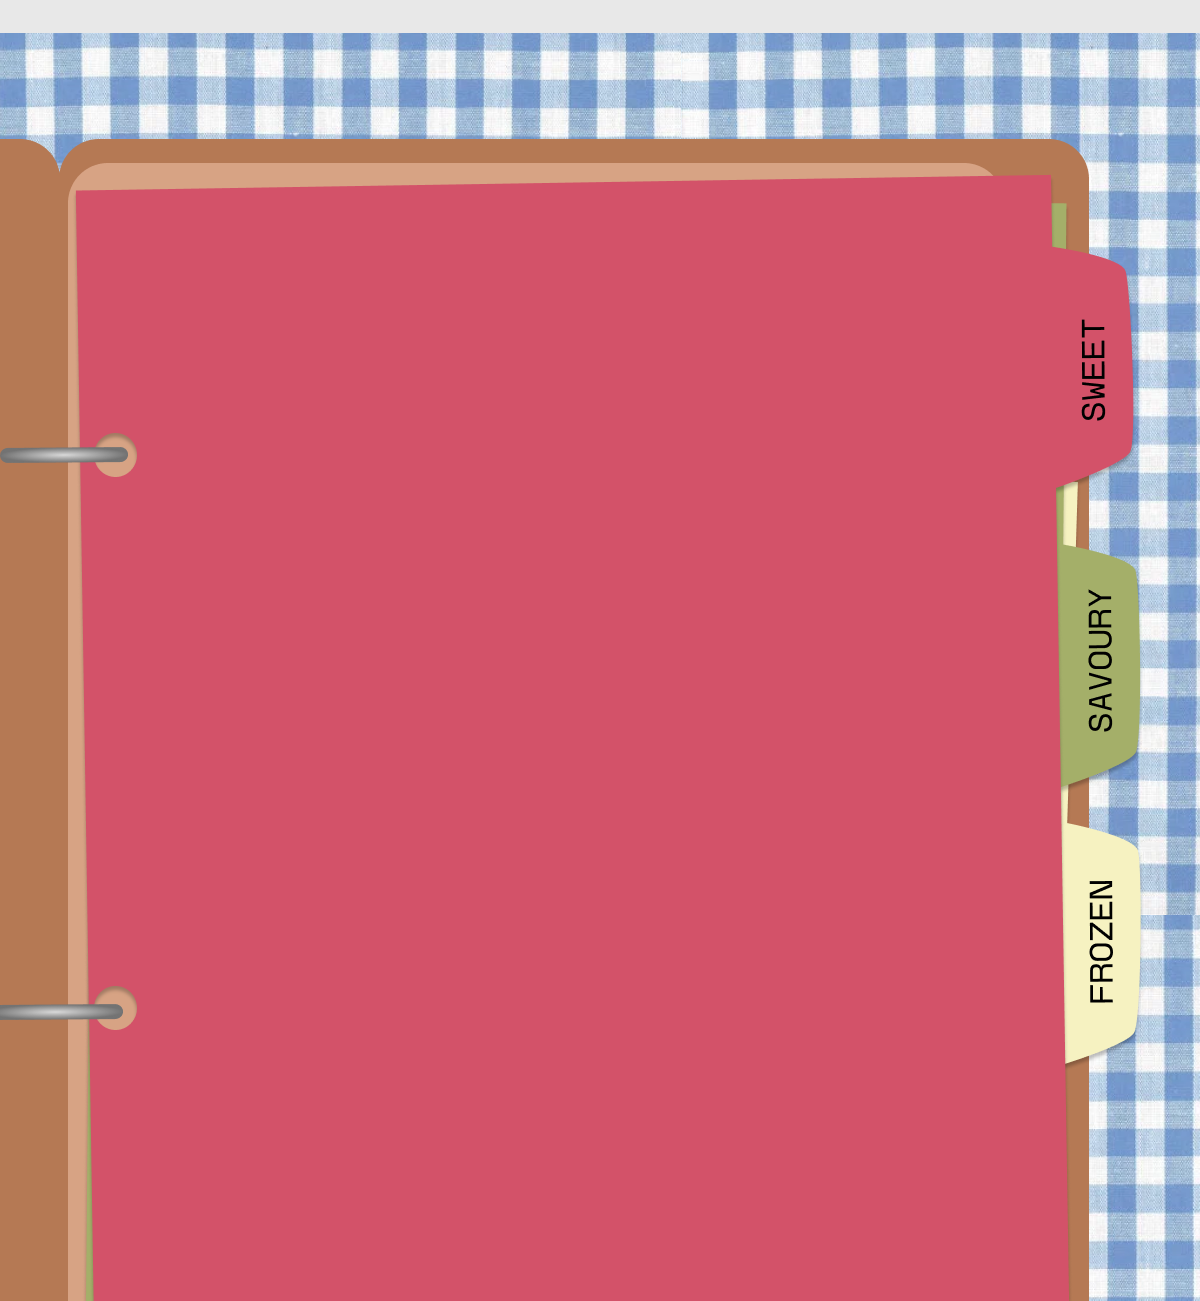
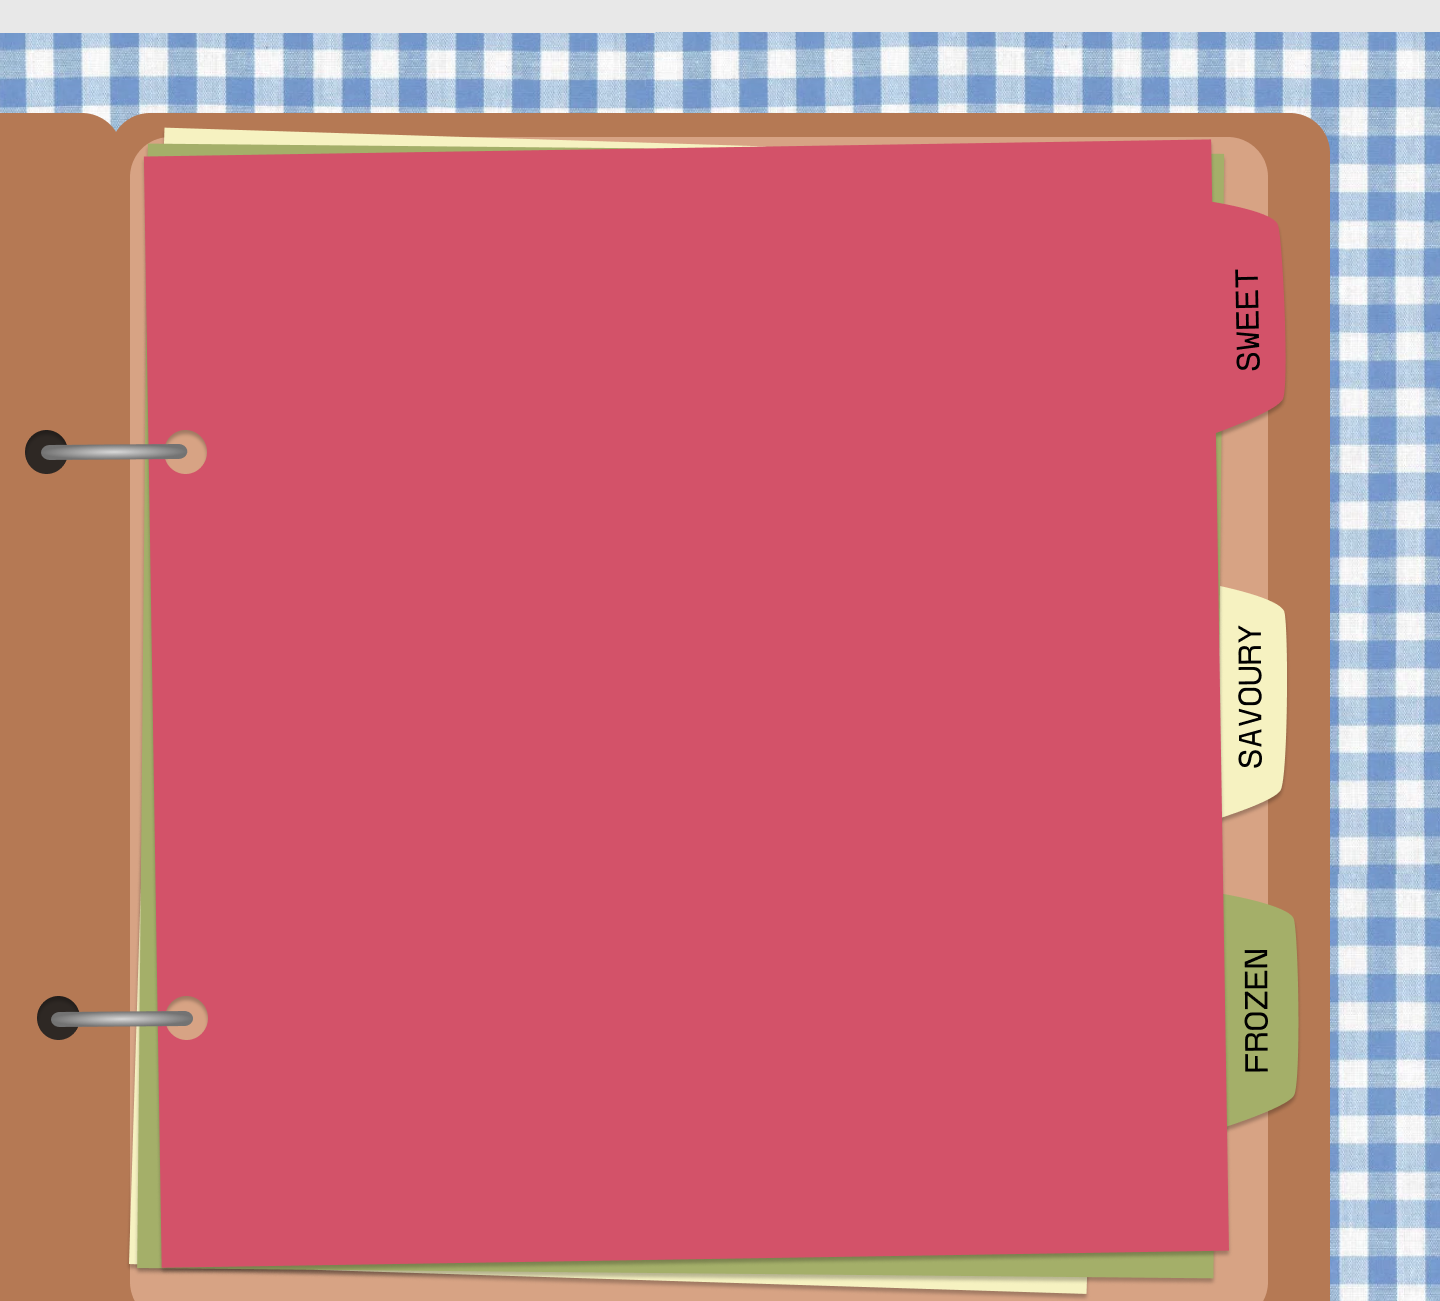
( ◕ ◞ ◕ ) auto commit

Changed region(s): [[0.0, 0.0, 1.0, 1.0]]

diff --git a/options.html b/options.html
@@ -30,7 +30,7 @@
       /* Background image of recipe book + gingham */
       body {
         background-image: url("optionspage.png");
-        width: 1200px;
+        width: 1440px;
         height: 1300px;
         margin: 5px;
       }
@@ -64,7 +64,7 @@
         background-color: white;
         margin: 0px;
         padding-left: 30px;
-        width: 1200px;
+        width: 1440px;
         height: 70px;
         margin-top: -5px;
         margin-left: -5px;
@@ -92,7 +92,6 @@
         text-align: left;
       }
 
-      /* Once multi page is active!!!!! */
       nav li {
         display: inline-block;
         margin-right: 20px;
@@ -107,23 +106,47 @@
         color: #D35269;
       }
 
-      
       .container {
         display: grid;
         grid-template-columns: 33% 33% 33%;
         width: 800px;
         text-align: center;
+        justify-content: center;
         margin: 0 auto;
+        column-gap: 50px;
+        row-gap: 30px;
+        margin-top: -70px;
       }
 
       .recipe-icons {
         min-height: 10px;
         min-width: 10px;
-        gap: 5px;
+        text-align: center;
       }
+
+/*       
+  Code snippet from w3 schools tutorial on shaking images     */
+      .recipe-icons:hover {
+        animation: shake 3s;
+        animation-iteration-count: infinite;
+      }
+
+  @keyframes shake {
+  0% { transform: translate(1px, 1px) rotate(0deg); }
+  10% { transform: translate(-1px, -2px) rotate(-1deg); }
+  20% { transform: translate(-3px, 0px) rotate(1deg); }
+  30% { transform: translate(3px, 2px) rotate(0deg); }
+  40% { transform: translate(1px, -1px) rotate(1deg); }
+  50% { transform: translate(-1px, 2px) rotate(-1deg); }
+  60% { transform: translate(-3px, 1px) rotate(0deg); }
+  70% { transform: translate(3px, 1px) rotate(-1deg); }
+  80% { transform: translate(-1px, -1px) rotate(1deg); }
+  90% { transform: translate(1px, 2px) rotate(0deg); }
+  100% { transform: translate(1px, -2px) rotate(-1deg); }
+}
     </style>
-    
   </head>
+
   <body>
     <nav>
       <ul>
@@ -133,35 +156,35 @@
     </nav>
     <div class="container">
       <div class="recipe-icons">
-       <a href="recipepage.html"><img src="grmnchoccookies.png" alt="a close up of a double chocolate cookies with chocolate chips and walnuts"></a>
+        <a href="recipepage.html"><img src="grmnchoccookies.png" alt="a close up of a double chocolate cookies with chocolate chips and walnuts"></a>
       </div>
-        
-              <div class="recipe-icons">
+
+      <div class="recipe-icons">
         <img src="orangecake.png" alt="an up close shot of an orange olive oil cake with 2 slices cut into it">
       </div>
-        
-              <div class="recipe-icons">
+
+      <div class="recipe-icons">
         <img src="strawbcake.png" alt="a birds-eye shot of a circular vanilla cake with strawberries on top and a spoon laying in the pan">
       </div>
-        
-              <div class="recipe-icons">
+
+      <div class="recipe-icons">
         <img src="beercake.png" alt="a chocolatey guiness cake on a white plate with thick cream cheese frosting on top">
       </div>
-      
-          <div class="recipe-icons">
+
+      <div class="recipe-icons">
         <img src="bananablondies.png" alt="square banana bread blondies lying on top of crumpled parchment paper">
       </div>
-      
+
       <div class="recipe-icons">
         <img src="applemuffins.png" alt="apple crumble muffins with white glaze on top of marbled countertop">
       </div>
-      
-      
+
+
       <div class="recipe-icons">
         <img src="chocchipcookies.png" alt="chocolate chip cookies with sea salt on a piece of crumpled parchment paper">
       </div>
-      
-            <div class="recipe-icons">
+
+      <div class="recipe-icons">
         <img src="peanutcookie.png" alt="a close up shot a crackly peanut butter cookie with coarse sugar on top and peanuts sticking out">
       </div>
 

diff --git a/recipepage.html b/recipepage.html
@@ -3,6 +3,9 @@
   <head>
     <meta charset="UTF-8">
     <title>egvozdek Final Project</title>
+    
+<!--     tried favicon here- cant tell if it works -->
+      <link rel="icon" type="image/eglogo-icon" href="/images/eglogo.png">
     <!-- Created by Elena Gvozdek, Nov 14th, 2026 -->
 
     <!--FONTS -->
@@ -74,7 +77,7 @@
         background-color: white;
         margin: 0px;
         padding-left: 30px;
-        width: 1200px;
+        width: 1440px;
         height: 70px;
         margin-top: -5px;
         margin-left: -5px;
@@ -119,21 +122,28 @@
 
       
       .container {
-        display: grid;
+        display: inline-grid;
         grid-template-columns: 50% 50%;
-        width: 1000px;
+        width: 1210px;
+        margin-left: -0px;
         text-align: center;
         margin: 0 auto;
       }
+      
+      .grid-item {
+      }
 
       .recipe-icons {
+        margin-top: -40px;
+        margin-left: 100px;
         min-height: 10px;
         min-width: 10px;
+        width: 450px;
         gap: 5px;
-        bacground-color: red;
       }
+      
     </style>
-    
+
   </head>
   <body>
     <nav>
@@ -199,3 +209,4 @@
         <p>Advance preparation: This is a last-minute preparation, but you can have your ingredients prepared well in advance.</p>
         
   </body>
+  </html>

diff --git a/index.html b/index.html
@@ -136,6 +136,8 @@
        font-size: 25px;
        font-weight: 600;
       }
+      
+      
 
       .title-section {
         display: grid;
